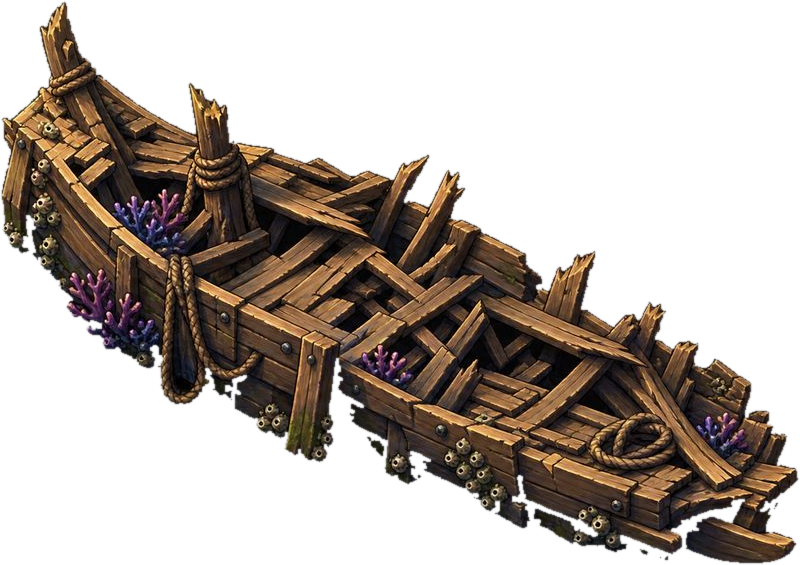
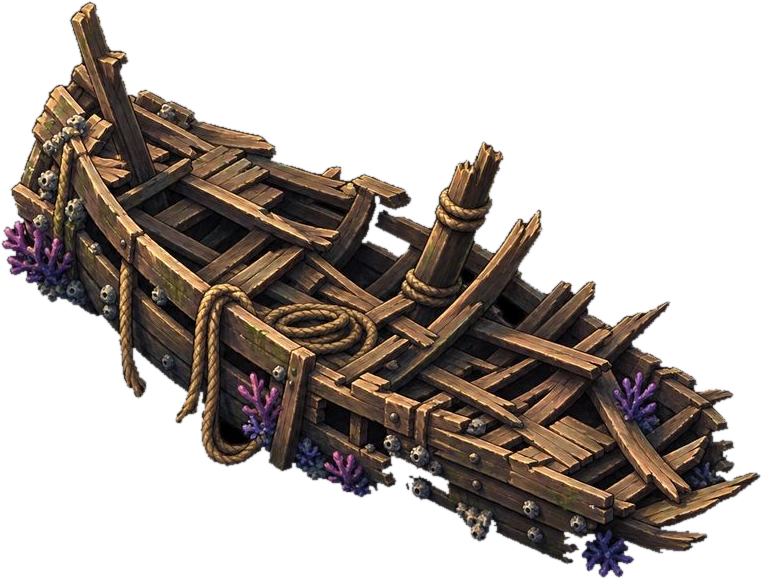
Dock map: Mauro's pick, painted ship option 1, as the wreck
Claude-Session: https://claude.ai/code/session_01FD443agZjoLT4rrjxRyuet

diff --git a/docs/CHANGE_LOG_CLAUDE.md b/docs/CHANGE_LOG_CLAUDE.md
@@ -144,7 +144,7 @@ on those branches) → the in-game **Actualizar** button.
 | (docs) | **PC team: only PC** (Mauro 2 Oct 2026: "the new team should only touch the pc documents"). `docs/PC_TEAM_HANDOFF.md`: PC team writes only `main` (via PRs) and `pc/*` branches, only PC docs (`docs/CHANGE_LOG_PC.md`, `docs/pc/`, the handoff); phone docs and branches are read-only for them; no APKs. No game change | Mauro | see PC-only commit |
 | (docs) | **PC team job: finish Crosshaven** (Mauro 2 Oct 2026: "Dont give instruccions to work on the characters just keep building the map dungeons npc with a story side line mission etc etc focus in finishing only crosshaven"). `docs/PC_TEAM_HANDOFF.md`: map (11 zones), dungeon entrance to Threshgate, NPCs, story, side missions; story / quests are proposals until Mauro approves; no character work, no other regions, no rule changes; start from `cursor/crosshaven-v6-world-2bb7`. No game change | Mauro | see Crosshaven-focus commit |
 | 0.1.116 | **The dock map (Brinewake Koliseo) rebuilt like Mauro's dock picture** (Mauro 5 Oct 2026: "obstacles have to be something above the ground ... that a ship could have or a dock has", then after previews "dont put too many obstacles / Dont do the flag / I really like the rocks that looks like coral and the plants ... that map that you sent me its even better the ship in the middle just without the flags and a little bit less obstacles"). Pieces cut by traced outline from `art/maps/arena_look/refs/brinewake_look.jpg` (the automatic cut lost them in the dark floor) and lifted to the board's lighting: `build_tools/art/brinewake_dock_props.py` writes `prop_wreck` (shipwreck), `prop_coral_rock`, `prop_crate`, `prop_chest`, `prop_coral`, `prop_wreck_side` (clear). Layout `build_tools/art/brinewake_dock_layout.py` (tags + the Tiled file): 11 obstacle tiles / 9 pieces instead of 13 — the wreck across (6,7) (7,7) (8,7) drawn once as the centrepiece, coral rocks (3,3) (11,3) (3,11) (11,11), crates (7,2) (7,12), chests (1,4) (13,10); coral plants on six water tiles; driftwood, rubble, ruins, fences (flags) and the old dark rock / pillar holes removed; the eight raised blocks hugging the middle flattened so the wreck shows. `CellTagMap.BLOCKING_PROPS` + coral_rock / crate / chest / wreck_side (block walk and sight). `ArenaLook` brinewake centrepiece "wreck" only where the tags carry `wreck_side` (the Brinewake dungeon rooms do not get it); a centrepiece tile draws one row higher so the tiles in front do not cut it. Obstacle glow now sits under the obstacle (it hid the dark pieces) and only bare holes get the shade. Test: Koliseo maps `_test_brinewake_dock_layout`. Stamp 0.1.116 (code 117). All 24 suites pass | Mauro | see 0.1.116 commits |
-| 0.1.117 | **Dock map pieces easier to see** (Mauro 5 Oct 2026: "I like this one can you just improve it a little more", then "Improve the map i told you i like"). Same layout and pieces as 0.1.116. `build_tools/art/brinewake_dock_props.py`: shadows opened (gamma 0.62) before the lift (1.75) so the coral rocks and wreck are no longer black on the planks; a soft warm rim around every piece (wreck, coral rocks, crates, chests, coral plants) so obstacles stand out from the floor; **new shipwreck painted for the game** (Mauro: "Can you just do your own ship that looks like you copy and paste a bad image"): made with Scenario from the dock picture's style (no flags, no water), cut from its black backdrop into `art/maps/arena_look/refs/brinewake_wreck_painted.png`; `brinewake_dock_props.py` now scales it to 168 px, opens its shadows a little and adds the same rim; it replaces the wreck cut from the picture. Same cells, still blocks walk and sight. Stamp 0.1.117 (code 118). All 24 suites pass | Mauro | see 0.1.117 commits |
+| 0.1.117 | **Dock map pieces easier to see** (Mauro 5 Oct 2026: "I like this one can you just improve it a little more", then "Improve the map i told you i like"). Same layout and pieces as 0.1.116. `build_tools/art/brinewake_dock_props.py`: shadows opened (gamma 0.62) before the lift (1.75) so the coral rocks and wreck are no longer black on the planks; a soft warm rim around every piece (wreck, coral rocks, crates, chests, coral plants) so obstacles stand out from the floor; **new shipwreck painted for the game** (Mauro: "Can you just do your own ship that looks like you copy and paste a bad image"): made with Scenario from the dock picture's style (no flags, no water), cut from its black backdrop into `art/maps/arena_look/refs/brinewake_wreck_painted.png`; `brinewake_dock_props.py` now scales it to 168 px, opens its shadows a little and adds the same rim; it replaces the wreck cut from the picture. Mauro picked option 1 of the three ("First one i like it ... put it in the game"). Same cells, still blocks walk and sight. Stamp 0.1.117 (code 118). All 24 suites pass | Mauro | see 0.1.117 commits |
 | 0.1.115 | **The walk-blocked marks match each map instead of red** (Mauro 5 Oct 2026: "Instead of being red make look a style with the map just make it obvious that its a cell that you cannot use maybe the water tiles you should already know you cannot walk there but maybe put it like a glow"). `SnapshotTiles.walk_block_kind`: "liquid" (water / mud / lava) or "block" (hole / solid obstacle). `BoardTile._paint_walk_blocked` draws a soft inner glow (four fading rings): liquid tiles only glow in their own colour (water cyan, mud tan, lava orange); holes and obstacles get a light shade plus a glow in the map accent (`BLOCK_GLOW`: Brinewake sea-teal, Slagcrown ember, Windmere ice, Stormspire violet, Crosshaven gold). Captures of all five maps sent to Mauro, with the Brinewake dock obstacles shown. Test: liquid vs block kinds on every map. Stamp 0.1.115 (code 116). All 24 suites pass | Mauro | see 0.1.115 commits |
 | 0.1.114 | **Tiles you cannot walk onto are marked on every map** (Mauro 5 Oct 2026, Brinewake screenshot, "REJECT — illegal move (not_walkable)": "All tiles that are obstacles or cannot be walked in please make it different ... lets change in all maps"). `SnapshotTiles.walk_blocked` (water, mud, lava, void, or a tile the map marks unwalkable — solid obstacles; the snapshot's per-tile `walkable` is now kept) → `BoardTile.set_walk_blocked` from `board_view._apply_board_tiles`; the tile's highlight overlay draws a dark shade (`WALK_BLOCKED_SHADE`) and a red inner border (`WALK_BLOCKED_LINE`) under the move / spell highlights. Same in Koliseo, hot-seat, online and Stasis rooms. Checked on Brinewake, Slagcrown, Windmere, Stormspire and Crosshaven captures. Test: Koliseo maps `_test_walk_blocked_tiles_marked` (the marked tiles are exactly the ones the sim refuses a walk onto, on all five maps). Stamp 0.1.114 (code 115). All 24 suites pass | Mauro | see 0.1.114 commits |
 | 0.1.113 | **Fighters face each other while placing too** (Mauro 5 Oct 2026, deployment screenshot: "Players are not facing each other"; 0.1.112 only turned them when both sides were Ready). `CombatSim._submit_place` now calls `_face_opponents` after every place / reposition, so each placed fighter already looks at its nearest placed enemy during deployment; Ready still re-faces at the start. Checked on the board: Kestrel at (7,6) faces N toward Ironjaw at (7,1), who faces S toward her. Test: the both-ready test checks facings while placing. Stamp 0.1.113 (code 114). All 24 suites pass | Mauro | see 0.1.113 commits |
